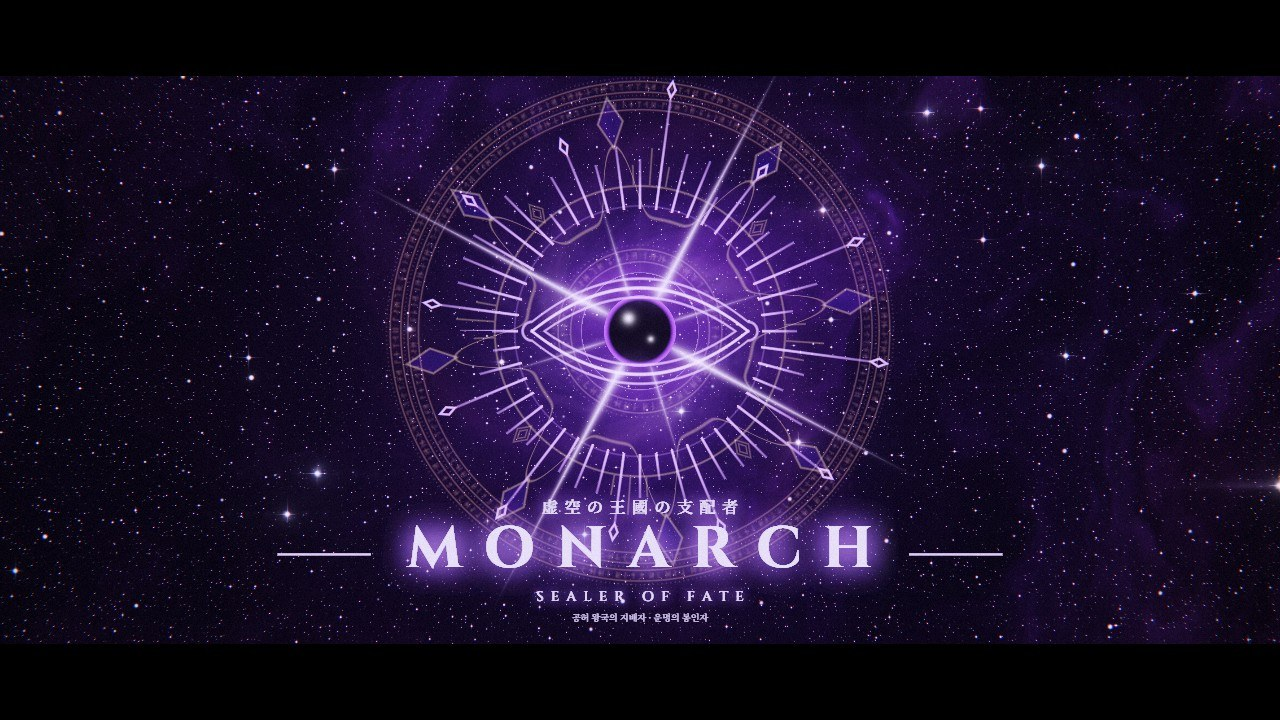
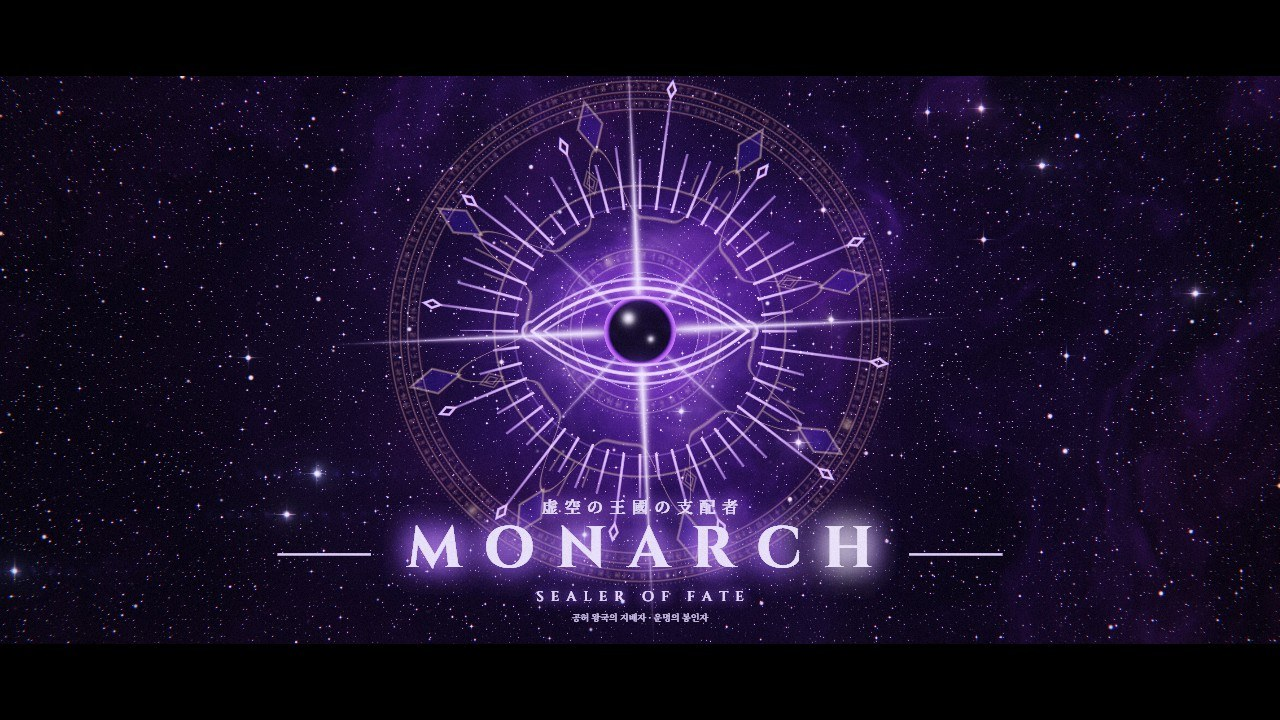
MONARCH V3: flashier, more atmospheric visuals
Intro: the rune ring pulses on every counter tick, three glints orbit
the ring, out-of-focus bokeh drifts, slow rays turn from the center and
a shockwave spreads on each ALL HAIL. Sigil: rays from the void, forty
orbiting sparkles, gold glints sweeping the rune rings, rising embers
and a radial burst of light streaks on each symbol hit. Stronger violet
anamorphic flare. Angle-based noise replaced with direction-vector
noise so no seam appears at 180 degrees.

diff --git a/public/monarch3_gl.html b/public/monarch3_gl.html
@@ -72,7 +72,7 @@ void main(){
   vec2 dir = uv - .5; float ca = uCA * (.3 + length(dir) * 1.8) + uTrans * .01; vec3 col = scene(uv); if (ca > .0003){ vec3 c0 = texture(uScene, uv).rgb; col.r += texture(uScene, uv + dir * ca).r - c0.r; col.b += texture(uScene, uv - dir * ca).b - c0.b; col = max(col, 0.); }
   vec3 bl = texture(uBloom, uv).rgb, st = vec3(0.); for (int i = -7; i <= 7; i++){ float fi = float(i); st += texture(uBloom, uv + vec2(fi * .015, 0.)).rgb * exp(-fi * fi * .06); }
   float dirt = pow(fbm(vUv * vec2(5., 3.) + 3.), 3.) * 1.6 + pow(noise(vUv * vec2(60., 34.)), 12.) * 2.;                                                     // 렌즈 먼지 · 할레이션
-  col += bl * uBloomK * (1. + dirt * .7) + st * .07 * uBloomK * vec3(.8, .7, 1.) + texture(uRays, uv).rgb * uRayK + bl * vec3(.18, .04, .02) * uWarm * .6;
+  col += bl * uBloomK * (1. + dirt * .7) + st * .16 * uBloomK * vec3(.55, .45, 1.) + texture(uRays, uv).rgb * uRayK + bl * vec3(.18, .04, .02) * uWarm * .6;
   vec4 tx = texture(uTxt, uv); col = col * (1. - tx.a) + tx.rgb; col += vec3(.85, .8, 1.) * uFlash;
   col = (col * (2.51 * col + .03)) / (col * (2.43 * col + .59) + .14); col = pow(clamp(col, 0., 1.), vec3(1. / 2.2)); col = mix(col, col * col * (3. - 2. * col), .35) * vec3(.98, .95, 1.04); float lu = dot(col, vec3(.3, .55, .15)); col = mix(col, vec3(lu) * vec3(.72, .88, 1.15), uCold * .55); col = mix(col, col * vec3(1.1, .93, .88) + vec3(.02, .003, 0.) * (1. - lu), uWarm * .5);   // 차가운 밤 → 불지옥
   col += (hash(gl_FragCoord.xy + fract(uT) * 91.7) - .5) * .035 * uGrainK; float v = length((vUv - .5) * vec2(1., .8)); col *= 1. - smoothstep(.42, 1.1, v) * .6;
@@ -81,7 +81,7 @@ void main(){
 }`;
 const FS_INTRO = `#version 300 es
 precision highp float; in vec2 vUv; out vec4 o;
-uniform vec2 uRes; uniform float uT, uBG, uRingA, uRingK, uStarK, uEyeK, uDread, uLight, uHail; uniform sampler2D uRunes;
+uniform vec2 uRes; uniform float uT, uBG, uRingA, uRingK, uStarK, uEyeK, uDread, uLight, uHail, uTickP, uHailAge; uniform sampler2D uRunes;
 ${CSGL.NOISE}
 mat2 rot(float a){ float c = cos(a), s = sin(a); return mat2(c, -s, s, c); }
 float ln(float d, float w){ return smoothstep(w + 1.5 / uRes.y * 2., 0., d); }
@@ -100,7 +100,7 @@ void main(){
   vec2 s = (vUv - .5) * vec2(uRes.x / uRes.y, 1.) * 2.; float r = length(s);
   vec2 p = rot(uT * .025 + .35 / (r + .6)) * s * 1.15; float f, lit = exp(-r * 1.7);                                                   // 가운데로 천천히 감겨드는 성운
   vec3 col = vec3(.003, .001, .009) + nebula(p * .75, lit, uT, f) + vec3(.3, .1, .7) * exp(-r * 2.5) * .22;
-  col += vec3(.45, .2, .9) * pow(noise(vec2(atan(s.y, s.x) * 7., uT * .15)), 4.) * exp(-r * .9) * .16;                                  // 가운데서 뻗는 옅은 빛줄기
+  col += vec3(.45, .2, .9) * pow(noise(rot(uT * .04) * normalize(s + 1e-5) * 5. + uT * .15), 4.) * exp(-r * .9) * .16;                                  // 가운데서 뻗는 옅은 빛줄기
   col += starsL(s * 70. + uT * vec2(.4, -.2), .45, .07) * .45 + starsL(s * 28. + 3.7 + uT * vec2(.6, -.3), .22, .06) * .85 + starsL(s * 9. + 1.3 + uT * vec2(.9, -.4), .08, .045) * 1.5;   // 세 겹의 별(시차)
   col = mix(col, col * vec3(1.25, .62, .7) + vec3(.03, 0., .008) * f, uDread * .8);                                                            // 말이 쌓일수록 핏빛
   col *= uBG * (1. + uLight * (2.2 + 2. * f));
@@ -110,7 +110,13 @@ void main(){
     float rims = ln(abs(rr - 1.49), px + .004) + ln(abs(rr - 1.85), px + .004) + .6 * ln(abs(rr - 1.93), px + .003) + .5 * ln(abs(rr - 1.), px + .003) + .4 * ln(abs(rr - 1.24), px + .003);
     float tick = smoothstep(.12, 0., abs(fract(a1 * 72.) - .5)) * step(1.87, rr) * step(rr, 1.91) + smoothstep(.06, 0., abs(fract(a2 * 24.) - .5)) * step(.94, rr) * step(rr, 1.0);
     vec3 rc = mix(vec3(.55, .25, 1.), vec3(1., .35, .75), .5 + .5 * sin(an * 2. + uT * .5)); rc = mix(rc, vec3(1., .3, .35), uDread * .45);
-    col += rc * (g * 1.3 + g2 * .8 * (.15 + .85 * uEyeK) + rims * .9 + tick * .7) * uRingK * (.5 + .5 * front) * (1. + 1.6 * uHail) + vec3(.3, .1, .6) * exp(-abs(rr - 1.66) * 6.) * .12 * uRingK; } }
+    col += rc * (g * 1.3 + g2 * .8 * (.15 + .85 * uEyeK) + rims * .9 + tick * .7) * uRingK * (.5 + .5 * front) * (1. + 1.6 * uHail + .8 * uTickP) + vec3(.3, .1, .6) * exp(-abs(rr - 1.66) * 6.) * .12 * uRingK;
+    for (int gi = 0; gi < 3; gi++){ float fg = float(gi), gq = mod(an + uRingA - uT * (1.1 + .4 * fg) - fg * 2.1 + 3.1416, 6.2832) - 3.1416;   // 고리를 따라 도는 광채
+      col += vec3(1., .86, 1.) * exp(-gq * gq * rr * rr * 700.) * smoothstep(.16, 0., abs(rr - 1.67) - .1) * .9 * uRingK; } } }
+  for (int i = 0; i < 14; i++){ float fi = float(i); vec2 bc = vec2(hash(vec2(fi, 1.)) * 3.6 - 1.8, hash(vec2(fi, 2.)) * 2.2 - 1.1) + vec2(sin(uT * .13 + fi), cos(uT * .11 + fi * 1.7)) * .12;   // 초점이 나간 빛망울
+    float br = .05 + .09 * hash(vec2(fi, 3.)), bd = length(s - bc); col += mix(vec3(.5, .2, 1.), vec3(1., .3, .65), hash(vec2(fi, 4.))) * (smoothstep(br, br * .8, bd) * .5 + smoothstep(.006, 0., abs(bd - br * .9)) * .4) * .06 * uBG; }
+  col += vec3(.5, .22, 1.) * pow(noise(rot(uT * .05) * normalize(s + 1e-5) * 4. + uT * .12), 3.) * exp(-r * .8) * .22 * uBG * (1. + uTickP);       // 가운데서 천천히 도는 빛살
+  if (uHailAge >= 0.){ float R = uHailAge * 2.4; col += (vec3(1., .85, 1.) * exp(-abs(r - R) * 60.) * 1.1 + vec3(.6, .3, 1.) * exp(-abs(r - R * .8) * 14.) * .3) * exp(-uHailAge * 2.5); }   // 만세마다 퍼지는 충격파
   if (uStarK > 0.){ vec2 s = s * 2.; float r = length(s); vec2 q = rot(uT * 1.1) * s, q2 = rot(.785) * q;                                                                      // 눈 모양 룬 뒤에서 도는 보랏빛 별
     float st = exp(-abs(q.x) * 30.) * exp(-abs(q.y) * 1.8) + exp(-abs(q.y) * 30.) * exp(-abs(q.x) * 1.8) + (exp(-abs(q2.x) * 45.) * exp(-abs(q2.y) * 3.5) + exp(-abs(q2.y) * 45.) * exp(-abs(q2.x) * 3.5)) * .6;
     col += (vec3(.6, .25, 1.) * st * 1.1 + mix(vec3(.95, .8, 1.), vec3(.6, .3, 1.), smoothstep(0., .3, r)) * (exp(-r * 11.) * .9 + exp(-r * 3.) * .12)) * uStarK; }
@@ -150,12 +156,12 @@ void main(){
   vec2 sp0 = c0 / mix(1., uZoomV, .5); col += starsL(sp0 * 70. + uT * vec2(.3, -.15), .45, .07) * .45 + starsL(sp0 * 28. + 3.7, .22, .06) * .85 + starsL(c0 / mix(1., uZoomV, .8) * 9. + 1.3, .08, .045) * 1.5;
   vec3 bgc = col;
   float Rv = .23 * uVoidR, e = r - Rv;
-  if (uSwirlK > 0.){ float lr = log(max(r, 1e-3)), spv = an * 3. + lr * 5.5 + uT * 2.4, arms = pow(.5 + .5 * cos(spv), 5.), fil = fbm(vec2(an * 5. + lr * 9. + uT * 1.4, lr * 4. - uT * .8));   // 공허로 빨려드는 세 갈래 나선의 빛
+  if (uSwirlK > 0.){ float lr = log(max(r, 1e-3)), spv = an * 3. + lr * 5.5 + uT * 2.4, arms = pow(.5 + .5 * cos(spv), 5.), fil = fbm(rot(lr * 1.8 + uT * .28) * normalize(s + 1e-5) * 5. + vec2(lr * 4. - uT * .8, lr * 1.5));   // 공허로 빨려드는 세 갈래 나선의 빛
     float fall = smoothstep(Rv, Rv * 1.5, r) * exp(-max(r - Rv, 0.) * 2.6);
     vec3 sc = mix(vec3(1., .88, 1.), vec3(.72, .26, 1.), smoothstep(Rv, Rv * 2.6, r)); sc = mix(sc, vec3(1., .22, .58), smoothstep(Rv * 2.2, Rv * 4.5, r)); sc = mix(sc, vec3(.12, .1, .6), smoothstep(Rv * 4., Rv * 7., r));
     col += sc * (arms * .8 + pow(fil, 2.5) * 1.4) * fall * uSwirlK * (1. - .5 * uSealK); }
-  if (uVoidR > 0.){ col += vec3(.5, .2, 1.) * exp(-max(e, 0.) * 12.) * .45 * (.6 + .4 * fbm(vec2(an * 5., uT * .3))) * uVoidR + vec3(1., .92, 1.) * ln(abs(e), .0025) * 1.5;   // 공허: 빛을 삼키는 검은 원 · 흰 테두리 · 코로나
-    col += vec3(.7, .4, 1.) * pow(max(0., fbm(vec2(an * 9., uT * .2)) - .35), 2.) * exp(-max(e, 0.) * 5.) * step(0., e) * 2. * uVoidR;
+  if (uVoidR > 0.){ col += vec3(.5, .2, 1.) * exp(-max(e, 0.) * 12.) * .45 * (.6 + .4 * fbm(normalize(s + 1e-5) * 2.5 + uT * .3)) * uVoidR + vec3(1., .92, 1.) * ln(abs(e), .0025) * 1.5;   // 공허: 빛을 삼키는 검은 원 · 흰 테두리 · 코로나
+    col += vec3(.7, .4, 1.) * pow(max(0., fbm(normalize(s + 1e-5) * 4.5 + vec2(uT * .2, 1.)) - .35), 2.) * exp(-max(e, 0.) * 5.) * step(0., e) * 2. * uVoidR;
     if (e < 0.){ vec2 w = s / Rv; col = vec3(.0015, 0., .004) + vec3(.3, .08, .7) * exp(e / Rv * 10.) * .35;
       float op = min(uEyeK, 1.), sh = pow(abs(w.x) / .6, 1.3) + pow(abs(w.y) / (.28 * op + 1e-3), 2.);                                  // 공허에 뜨이는 보랏빛 눈
       if (op > .01 && sh < 1.){ float ir = length(w * vec2(1., 1.15)); vec3 ec = vec3(.06, 0., .12) + vec3(.85, .3, 1.) * smoothstep(.36, .12, ir) * (1.3 + .8 * max(uEyeK - 1., 0.)) + vec3(1., .85, 1.) * smoothstep(.1, .02, ir) * .6;
@@ -165,7 +171,8 @@ void main(){
       col += (vec3(1.) * st * 1.4 + vec3(.9, .8, 1.) * exp(-length(w) * 9.) * 1.2) * uStarK; } }
   vec3 gold = mix(vec3(.85, .6, 1.), vec3(1., .82, .5), uSealK); float rk = max(uSealK, uCrownK);
   if (uArmK > 0.) for (int i = 0; i < 3; i++){ float fi = float(i), R = mix(.42 + .14 * fi, i == 0 ? .3 : (i == 1 ? .9 : .97), rk), W = mix(.05, i == 0 ? .04 : .034, rk); vec2 p = rot(uT * (.14 + .06 * fi) * (i == 1 ? -1. : 1.)) * s;   // 지배: 도는 세 룬 고리(왕관이 서면 인장의 테로)
-    col += runeBand(p, R, W, mix(mix(vec3(.6, .3, 1.), vec3(1., .35, .7), fi * .5), gold, uSealK * .7)) * uArmK * step(fract(atan(p.y, p.x) / 6.2832 + .25), uArmK); }
+    col += runeBand(p, R, W, mix(mix(vec3(.6, .3, 1.), vec3(1., .35, .7), fi * .5), gold, uSealK * .7)) * uArmK * step(fract(atan(p.y, p.x) / 6.2832 + .25), uArmK);
+    float gq = mod(atan(p.y, p.x) - uT * (1.5 + .5 * fi) + 3.1416, 6.2832) - 3.1416; col += gold * exp(-gq * gq * R * R * 2500.) * smoothstep(W, 0., abs(length(p) - R)) * 1.2 * uArmK; }   // 룬 고리를 훑는 금빛 광채
   if (uMotes > 0. && uMotes < 1.) for (int i = 0; i < 16; i++){ float fi = float(i), th = fi / 16. * 6.2832 + uT * .6 + uMotes * 4., rr = mix(1.25, Rv * 1.05, pow(uMotes, 1.3)); float d = length(s - vec2(cos(th), sin(th)) * rr), k = (1. - smoothstep(.85, 1., uMotes)) * smoothstep(0., .06, uMotes);   // 만세의 빛들이 무릎 꿇듯 공허로
     col += (vec3(1., .93, 1.) * exp(-d * d * 12000.) * 1.6 + vec3(.7, .35, 1.) * exp(-d * 45.) * .22) * k; }
   if (uCrownK > 0.){ vec2 q = rot(-uT * .12) * s; float a8 = atan(q.y, q.x), rs = mix(.45, .74, pow(abs(cos(a8 * 4.)), 8.)), m = step(af, uCrownK);   // 왕관이라는 개념: 반시계로 도는 여덟 꼭짓점 별 · 여덟 다이아
@@ -175,6 +182,11 @@ void main(){
     float ai = floor(a1 / 1.5708 + .5), aa = a1 - ai * 1.5708, spikes = 0.; for (int j = -1; j <= 1; j++){ float fj = float(j), L = j == 0 ? .15 : .08; vec2 sd = vec2(cos(aa - fj * .11), sin(aa - fj * .11)) * r; spikes += ln(abs(sd.y), .0022) * step(.58, sd.x) * step(sd.x, .58 + L); }
     float aj = floor((a1 - .785) / 1.5708 + .5), ab = a1 - .785 - aj * 1.5708; vec2 dq = abs(vec2(cos(ab), sin(ab)) * r - vec2(.62, 0.)) / vec2(.047, .029); float dia2 = ln(abs(dq.x + dq.y - 1.) * .025, .0015) + ln(abs(dq.x + dq.y - .55) * .025, .001);   // 두 겹 다이아
     col += gold * (ln(abs(r - .576), .003) * 1.3 + spikes * 1.1 + dia2) * m1 + vec3(.7, .5, 1.) * ln(abs(r - .497), .0018) * m2; }
+  col += vec3(.55, .25, 1.) * pow(noise(rot(uT * .08) * normalize(s + 1e-5) * 5. + uT * .15), 3.5) * exp(-max(r - Rv, 0.) * 1.6) * smoothstep(Rv, Rv * 1.08, r) * .35 * uVoidR;           // 공허에서 뻗는 빛살
+  for (int i = 0; i < 40; i++){ float fi = float(i), h1 = hash(vec2(fi, 7.)), h2 = hash(vec2(fi, 8.)), rr = .32 + .7 * h1, th = h2 * 6.2832 + uT * (.15 + .5 * (1. - h1)) * (mod(fi, 2.) < .5 ? 1. : -1.);   // 둘레를 도는 반짝임
+    float d = length(s - vec2(cos(th), sin(th)) * rr), tw = .5 + .5 * sin(uT * (3. + 5. * h1) + fi * 7.); col += vec3(1., .9, 1.) * (exp(-d * d * 30000.) * 1.4 + exp(-d * 60.) * .06) * tw * uArmK; }
+  { vec2 eg = c0 * 9. + vec2(0., -uT * .8), gid = floor(eg), gf = fract(eg) - .5; float h = hash(gid + 31.);                                // 피어오르는 불티
+    if (h > .82){ vec2 o = (vec2(hash(gid + 4.), hash(gid + 9.)) - .5) * .6; float d = length(gf - o); col += mix(vec3(1., .45, .85), vec3(.7, .4, 1.), hash(gid + 2.)) * exp(-d * d * 900.) * (.4 + .6 * sin(uT * 4. + h * 50.)) * .5 * uVoidR; } }
   col = mix(bgc, col, uBack);                                                                                                        // 상징이 뜨면 인장은 뒤로 물러난다
   if (uSym > 0.){ vec2 p = c0 / uSymS; float r2 = length(p), a = atan(p.y, p.x), n = 48., ai = floor(a / 6.2832 * n + .5), aa = a - ai * 6.2832 / n, big = step(.75, fract(ai / 4.));   // 가운데의 상징: 가는 빛살 속의 검은 눈
     float L = .4 + .14 * hash(vec2(ai, 3.)) + .12 * big; vec2 rp = vec2(cos(aa), sin(aa)) * r2, tq = rp - vec2(L + .025, 0.);
@@ -186,6 +198,8 @@ void main(){
     float bl2 = (exp(-abs(q2.x) * 110. * (1. + abs(q2.y) * 9.)) * smoothstep(.45, 0., abs(q2.y)) + exp(-abs(q2.y) * 110. * (1. + abs(q2.x) * 9.)) * smoothstep(.45, 0., abs(q2.x))) * .6;
     vec3 ball = vec3(.004, 0., .012) + vec3(.4, .14, .9) * smoothstep(.018, 0., abs(r2 - .1)) + vec3(1.) * (exp(-length(p - vec2(-.032, .036)) * 150.) * 1.6 + exp(-length(p - vec2(.03, -.022)) * 240.) * .9);   // 검은 눈알 · 흰 반짝임 둘
     col = mix(col, ball, inside * min(uSym, 1.)); col += (vec3(.72, .5, 1.) * (rays * .9 + lids) + vec3(.9, .78, 1.) * (bl * 1.05 + bl2 * .8) * (1. - inside * .95) * smoothstep(.06, .16, r2) + vec3(.4, .15, .9) * exp(-r2 * 7.) * .12 * (1. - inside)) * uSym; }
+  if (uStamp >= 0. && uStamp < 1.2){ float aB = atan(c0.y, c0.x) / 6.2832 * 72., hb = hash(vec2(floor(aB), 5.)), rl = length(c0), head = uStamp * (1.6 + 1.4 * hb);   // 상징이 칠 때 사방으로 터지는 빛줄기
+    col += vec3(.95, .8, 1.) * step(.55, hb) * smoothstep(head - .35 * hb - .02, head - .35 * hb, rl) * smoothstep(head + .02, head, rl) * smoothstep(.12, .04, abs(fract(aB) - .5)) * exp(-uStamp * 3.) * 1.4; }
   if (uStamp >= 0.){ float rr = length(c0), R = uStamp * 1.7; col += (vec3(1., .85, .7) * exp(-abs(rr - R) * 90.) * .8 + vec3(.6, .3, 1.) * exp(-abs(rr - R * .7) * 20.) * .2) * exp(-uStamp * 3.); }   // 봉인의 일격
   o = vec4(max(col, 0.), 10.); }`;
 function lazyProgram(vs, fs) {
@@ -274,14 +288,14 @@ function drawOverlay(t, S) { SBK = DPR * TXS; tg.setTransform(1, 0, 0, 1, 0, 0);
 /* ═════════════════ 연출: 시각 t → 상태 (순수 함수) ═════════════════ */
 function state(t) {
   const S = { M: [0, 10 * ES, 0], focal: 1.3, focus: 400, aper: 0, eyeK: 1, port: new Float32Array(8), portP: new Float32Array(12), portK: new Float32Array(4), flash: 0, shock: -1, power: 0, crackK: 1, orbI: 1, fade: 0, shake: 0, rays: .1, bloom: .6,
-    zoomV: 1, rotV: 0, panY: 0, sym: 0, symS: 1, back: 1, voidR: 0, diskK: 0, armK: 0, armA: 0, motes: 0, sealK: 0, stamp: -1, voidK: 0, orbK: 1, auraK: 1, wispK: 1, hornK: 1, crownK: 1, haloK: 1, topK: 1, ringK: 1, emerge: 0, trans: 0, spinA: t * .4, ringA: t * .05, skyRing: 1, bg: 0, iringK: 0, starK: 0, ieyeK: 0, dread: 0, light: 0, hail: 0, spin: 0 };
+    zoomV: 1, rotV: 0, panY: 0, sym: 0, symS: 1, back: 1, voidR: 0, diskK: 0, armK: 0, armA: 0, motes: 0, sealK: 0, stamp: -1, voidK: 0, orbK: 1, auraK: 1, wispK: 1, hornK: 1, crownK: 1, haloK: 1, topK: 1, ringK: 1, emerge: 0, trans: 0, spinA: t * .4, ringA: t * .05, skyRing: 1, bg: 0, tickP: 0, hailAge: -1, iringK: 0, starK: 0, ieyeK: 0, dread: 0, light: 0, hail: 0, spin: 0 };
   const boltP = (lo, hi) => BOLTS.slice(lo, hi).reduce((m, tb) => Math.max(m, pulse(t, tb, .01, .22) * (Math.floor((t - tb) * 30) % 3 !== 1 ? 1 : .3)), 0);
   S.fade = seg(t, T.END - .6, T.END - .1);
   if (t < T.REVEAL) {                                                                                                                   // 인트로
     S.bg = eOut(seg(t, T.BG, T.BG + 1.3)); S.iringK = eOut(seg(t, .8, 2.2)); S.spin = 3 * TAU * eInOut(seg(t, T.HAIL, T.HAIL + 2.4)); S.ringA = t * .16 + S.spin;
     S.dread = .85 * seg(t, T.W0, T.ZERO) * (1 - eOut(seg(t, T.FLASH1, T.FLASH1 + .4))); S.light = boltP(0, 12);
     S.starK = t >= T.FLASH1 ? eOut(seg(t, T.FLASH1 + .03, T.FLASH1 + .5)) * (1 + .35 * pulse(t, T.HAIL, .02, .6)) : 0; S.ieyeK = eOut(seg(t, T.FLASH1 + .12, T.FLASH1 + .7));
-    S.hail = HAILS.reduce((m, h) => Math.max(m, pulse(t, h, .02, .55)), 0);
+    S.hail = HAILS.reduce((m, h) => Math.max(m, pulse(t, h, .02, .55)), 0); S.tickP = t < T.ZERO ? TICKS.reduce((m, tk) => Math.max(m, pulse(t, tk, .01, .18)), 0) : 0; HAILS.forEach((h) => { if (t >= h) S.hailAge = t - h; });
     S.flash = Math.max(S.light * .6, 3.2 * pulse(t, T.FLASH1, .01, .45), 3.2 * eIn(seg(t, T.FLASH2 - .15, T.FLASH2)));
     S.shake = Math.max(S.light * .5, pulse(t, T.FLASH1, .01, .5), S.hail * .6, .3 * seg(t, 12.6, T.FLASH2)); S.rays = .5 * S.starK; S.bloom = .75;
     for (let k = 0; k < KT; k++) S.shake = Math.max(S.shake, .12 * pulse(t, TICKS[k], .01, .12));
@@ -310,7 +324,7 @@ function state(t) {
 function render(t) {
   const S = state(t), gl = X.gl, pw = glc.width, ph = glc.height, intro = t < T.REVEAL, TG = RT.lo || RT.scene, sw = TG.w, sh = TG.h;
   drawOverlay(t, S); X.upload(txtTex, tcv, true); gl.disable(gl.DEPTH_TEST); gl.disable(gl.BLEND);
-  if (intro) { const pr = P.intro(), u = pr.u; X.pass(pr, TG, () => { gl.uniform2f(u.uRes, sw, sh); for (const [n, v] of [["uT", t], ["uBG", S.bg], ["uRingA", S.ringA], ["uRingK", S.iringK], ["uStarK", S.starK], ["uEyeK", S.ieyeK], ["uDread", S.dread], ["uLight", S.light], ["uHail", S.hail]]) if (u[n] != null) gl.uniform1f(u[n], v); if (u.uRunes != null) X.bindTex(6, runeTex, u.uRunes); }); }
+  if (intro) { const pr = P.intro(), u = pr.u; X.pass(pr, TG, () => { gl.uniform2f(u.uRes, sw, sh); for (const [n, v] of [["uT", t], ["uBG", S.bg], ["uRingA", S.ringA], ["uRingK", S.iringK], ["uStarK", S.starK], ["uEyeK", S.ieyeK], ["uDread", S.dread], ["uLight", S.light], ["uHail", S.hail], ["uTickP", S.tickP], ["uHailAge", S.hailAge]]) if (u[n] != null) gl.uniform1f(u[n], v); if (u.uRunes != null) X.bindTex(6, runeTex, u.uRunes); }); }
   else { const pr = P.sigil(), u = pr.u; X.pass(pr, TG, () => { gl.uniform2f(u.uRes, sw, sh);
     for (const [n, v] of [["uT", t], ["uZoomV", S.zoomV], ["uRotV", S.rotV], ["uPanY", S.panY], ["uVoidR", S.voidR], ["uSwirlK", S.diskK], ["uArmK", S.armK], ["uMotes", S.motes], ["uEyeK", S.eyeK], ["uCrownK", S.crownK], ["uHaloK", S.haloK], ["uStarK", S.starK], ["uSealK", S.sealK], ["uStamp", S.stamp], ["uSym", S.sym], ["uSymS", S.symS], ["uBack", S.back]]) if (u[n] != null) gl.uniform1f(u[n], v);
     if (u.uRunes != null) X.bindTex(6, runeTex, u.uRunes); }); }
